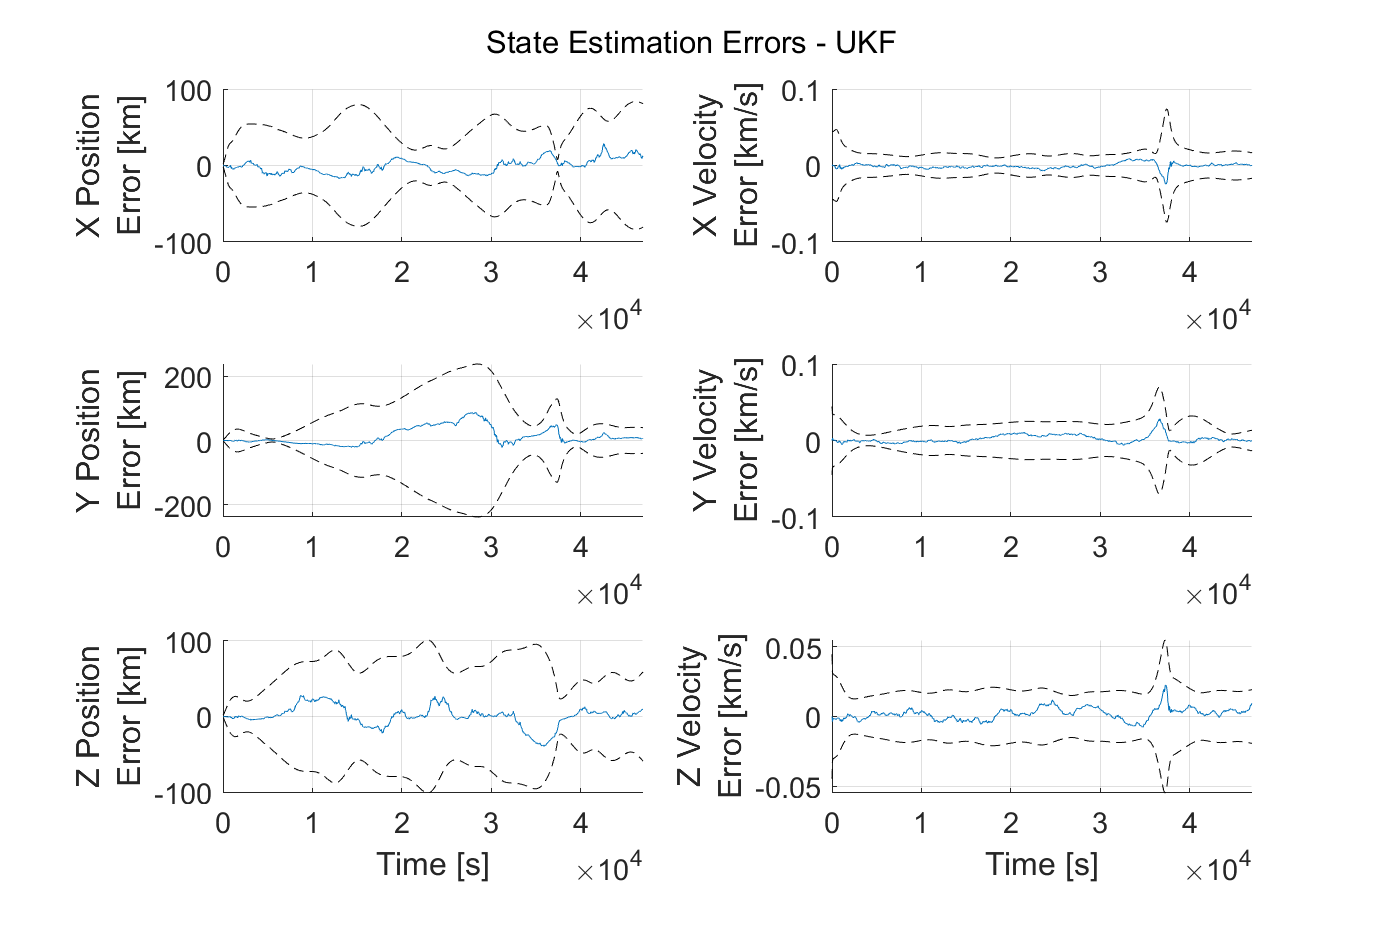
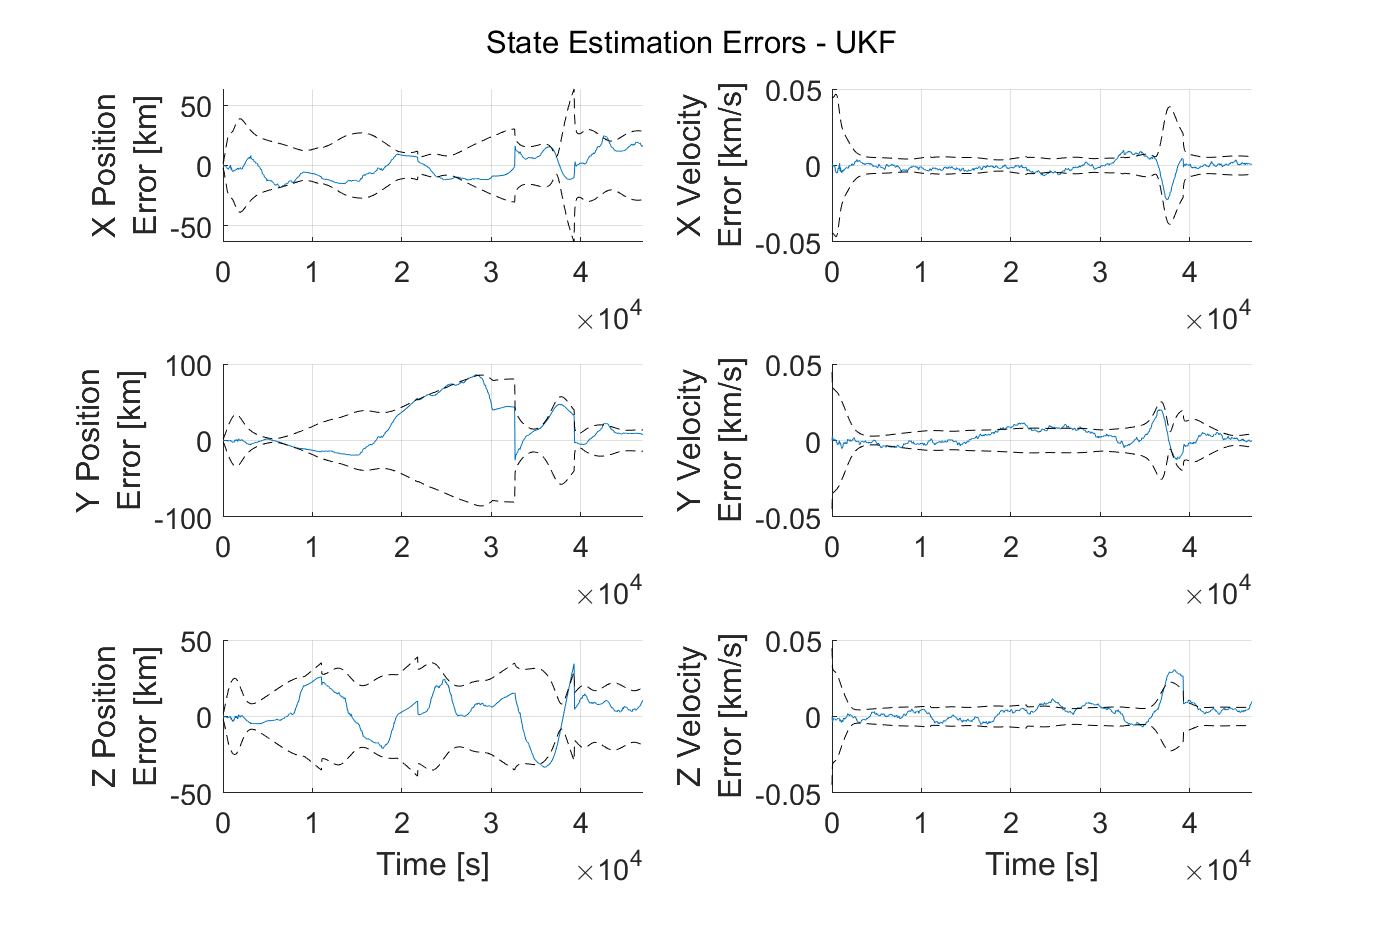
Tuned PF
Separated Q and R for each filter.
Added Line of Sight considerations

diff --git a/main.m b/main.m
@@ -45,19 +45,24 @@ saveas(fig, 'TM.png')
 
 %% Execute Filters
 %Parameters
-params.Q = 1e-6*[   0,      0,      0,      0,      0,      0;
-                    0,      1,      0,      0,      0,      0;
-                    0,      0,      0,      0,      0,      0;
-                    0,      0,      0,      1,      0,      0;
-                    0,      0,      0,      0,      0,      0;
-                    0,      0,      0,      0,      0,      1];
+params.UKF.Q = 1e-7*[   0,      0,      0,      0,      0,      0;
+                        0,      1,      0,      0,      0,      0;
+                        0,      0,      0,      0,      0,      0;
+                        0,      0,      0,      1,      0,      0;
+                        0,      0,      0,      0,      0,      0;
+                        0,      0,      0,      0,      0,      1];
+                    
+params.PF.Q = 1e-6*[    0,      0,      0,      0,      0,      0;
+                        0,      1,      0,      0,      0,      0;
+                        0,      0,      0,      0,      0,      0;
+                        0,      0,      0,      1,      0,      0;
+                        0,      0,      0,      0,      0,      0;
+                        0,      0,      0,      0,      0,      1];
 
-params.R = 10 * NOISE.R;
-% params.R = 10*[1,      0,      0,      0;
-%             0,      1e-5,      0,      0;
-%             0,      0,      0.01,    0; 
-%             0,      0,      0,      0.01]; % Measurement noise covariance
+params.UKF.R = 10 * NOISE.R;
+params.PF.R = 10 * NOISE.R;
 
+params.Ns = 1000; % Number of samples
 [UKF, PF] = RunFilters(x_chief, Y, params, CONST);
 
 
@@ -76,17 +81,27 @@ saveas(resid_fig, 'ResidualUKF.png')
 %% State Estimation Errors for PF
 
 PF_vec = VectorizeResults(PF);
-est_err_fig = PlotEstErr(t_vec, x_deputy, PF_vec.x_mmse, PF_vec.P, 'Particle Filter, N_s = 1000');
+est_err_fig = PlotEstErr(t_vec, x_deputy, PF_vec.x_mmse, PF_vec.P, sprintf('Particle Filter MMSE, N_s = %d', params.Ns));
 saveas(est_err_fig, 'EstErr_PF_MMSE.png');
 
 PF_vec = VectorizeResults(PF);
-est_err_fig = PlotEstErr(t_vec, x_deputy, PF_vec.x_map, PF_vec.P, 'Particle Filter, N_s = 1000');
+est_err_fig = PlotEstErr(t_vec, x_deputy, PF_vec.x_map, PF_vec.P, sprintf('Particle Filter MAP, N_s = %d', params.Ns));
 saveas(est_err_fig, 'EstErr_PF_MAP.png');
+
+Neff_fig = figure;
+hold on
+grid on
+xlabel('Time [s]')
+ylabel('Effective Sample Size, N_{eff}')
+title('Effective Sample Size vs Time')
+plot(t_vec, PF_vec.Neff, 'x', 'LineWidth', 2)
+set(gca, 'FontSize', 14)
+saveas(Neff_fig, 'Neff_PF.png')
 
 %% Measurement Errors for PF
 %MMSE
-resid_fig = PlotMeasInnov(t_vec, PF_vec.y_res_mmse, 'PF MMSE');
+resid_fig = PlotMeasInnov(t_vec, PF_vec.y_res_mmse, sprintf('PF MMSE, N_s = %d', params.Ns));
 saveas(resid_fig, 'ResidualPF_MMSE.png')
 %MAP
-resid_fig = PlotMeasInnov(t_vec, PF_vec.y_res_map, 'PF MAP');
+resid_fig = PlotMeasInnov(t_vec, PF_vec.y_res_map, sprintf('PF MAP, N_s = %d', params.Ns));
 saveas(resid_fig, 'ResidualPF_MAP.png')

diff --git a/RunFilters.m b/RunFilters.m
@@ -21,7 +21,7 @@ t = 0;
 
 %UKF
 filterUKF = trackingUKF(@transitionfcn, @measurementfcn, init_state, ...
-         'ProcessNoise', params.Q, 'MeasurementNoise', params.R,...
+         'ProcessNoise', params.UKF.Q, 'MeasurementNoise', params.UKF.R,...
          'StateCovariance', UKF.Pp,...
          'Alpha', 1e-3);
      
@@ -37,22 +37,29 @@ for k = 1:(length(Y)-1)
     
     %Prediction step
     [UKF.xm(:,k+1), UKF.Pm(:,:,k+1)] = predict(filterUKF, params.dt, CONST);
-%     [PF.xm(:,k+1), PF.Pm(:,:,k+1)] = predict(filterPF, params.dt, CONST);
     
-    %Measurement residual
-    [UKF.yres(:,k+1), UKF.Sk(:,:,k+1)] = residual(filterUKF, Y(:,k+1), {x_chief(:,k+1), zeros(params.p, params.p)});
-    %[PF.yres(:,k+1), PF.Sk(:,:,k+1)] = residual(filterPF, Y(:,k+1), {x_chief(:,k+1), zeros(params.p, params.p)});
-    
-    %Correction step
-    [UKF.xp(:,k+1), UKF.Pp(:,:,k+1)] = correct(filterUKF,Y(:,k+1), x_chief(:,k+1), zeros(params.p, params.p));
-%     [PF.xp(:,k+1), PF.Pp(:,:,k+1)] = correct(filterPF,Y(:,k+1), x_chief(:,k+1), zeros(params.p, params.p));
+    if ~isnan(Y(:, k+1)) % If a valid measurement is taken
+        
+        %Correction step
+        [UKF.xp(:,k+1), UKF.Pp(:,:,k+1)] = correct(filterUKF,Y(:,k+1), x_chief(:,k+1), zeros(params.p, params.p));
+
+        %Measurement residual
+        [UKF.yres(:,k+1), UKF.Sk(:,:,k+1)] = residual(filterUKF, Y(:,k+1), {x_chief(:,k+1), zeros(params.p, params.p)});
+        
+    else
+        
+        UKF.xp(:, k+1) = UKF.xm(:, k+1);
+        UKF.Pp(:, :, k+1) = UKF.Pm(:, :, k+1);
+        UKF.yres(:, k+1) = NaN;
+        UKF.Sk(:, :, k+1) = NaN;
+        
+    end
     
     %Step time forward
     t = t + params.dt;
 end
 
-Ns = 500;
-PF = RunPF(x_chief, Y, params, CONST, Ns);
+PF = RunPF(x_chief, Y, params, CONST, params.Ns);
 
 end
 

diff --git a/TruthModelSim.m b/TruthModelSim.m
@@ -49,13 +49,42 @@ X(:, :, 2) = X_deputy;
 
 % Measurements
 n_s = 2; % Number of satellites
-% X_chief = X(:, :, 1);
 
 for i = 2:n_s
-%     X_deputy = X(:, :, i);
-    
     Y = measurementfcn(X_deputy, X_chief, NOISE.R);
 end
+
+% Determine if the Line of Sight is obstructed
+X1 = [X_chief(1, :); X_chief(3, :); X_chief(5, :)]; % [km] Position vector of the chief satellite
+X2 = [X_deputy(1, :); X_deputy(3, :); X_deputy(5, :)]; % [km] Position vector of the deputy satellite
+pt = [0; 0; 0]; % Point to find the distance to
+LOS = X2 - X1; % Line of sight vector
+
+V_pt_LOS = cross(cross(pt - X1, LOS), LOS); % Vector w/ minimum distance from pt to LOS
+% Normalize each vector if the magnitude of V_pt_LOS is non-zero
+V_pt_LOS(:, vecnorm(V_pt_LOS) ~= 0) = V_pt_LOS(:, vecnorm(V_pt_LOS) ~= 0)./vecnorm(V_pt_LOS(:, vecnorm(V_pt_LOS) ~= 0)); % Unit LOS vector
+
+% Calculate the distance between pt and LOS if the magnitude of V_pt_LOS is
+% non-zero
+d_pt_LOS = vecnorm(cross(X1, LOS))./vecnorm(LOS); % [km] Distance from pt to LOS
+
+pt_LOS = d_pt_LOS.*V_pt_LOS; % [km] Point in 3D space on LOS closest to pt
+
+% Calculate the value of t in the equation:
+%   pt_LOS = X1 + t * LOS
+% to determine whether the shortest distance occurs between the satellites
+% (Corresponds to t = [0, 1]
+t = (pt_LOS - X1)./LOS;
+
+bool_valid_rng_prm = zeros(1, size(Y, 2));
+% bool_valid_rng_prm(1, :) = abs(t(1, :) - t(2, :)) < 1e-12;
+% bool_valid_rng_prm(2, :) = abs(t(1, :) - t(3, :)) < 1e-12;
+bool_valid_rng_prm = d_pt_LOS > CONST.R_E | t(1, :) < 0 | t(1, :) > 1;
+
+valid_rng_prm = double(bool_valid_rng_prm);
+
+valid_rng_prm(valid_rng_prm == 0) = NaN;
+Y = Y.*valid_rng_prm;
 
 end
 

diff --git a/SIS.m b/SIS.m
@@ -6,23 +6,34 @@ function [X_kp1] = SIS(X_k, y_kp1, x_chief, params, CONST)
 X_kp1.x = zeros(params.n, Ns);
 X_kp1.w = zeros(Ns, 1);
 
-for i = 1:Ns
-    mu_q = transitionfcn(X_k.x(:, i), params.dt, CONST);
-    X_kp1.x(:, i) = mvnrnd(mu_q, params.Q)';
-    
-    mu_p = measurementfcn(X_kp1.x(:, i), x_chief, zeros(params.p));
-    
-%     X_kp1.w(i) = X_k.w(i);
-%     for j = 1:params.p
-%         pdf_ij = normpdf(y_kp1(j), mu_p(j), params.R(j, j));
-%         X_kp1.w(i) = X_kp1.w(i) * pdf_ij;
-%     end
-    X_kp1.w(i) = X_k.w(i)*mvnpdf(y_kp1, mu_p, params.R);
-    
-end
+w_total = 0;
+iter = 0;
+max_iter = 100;
 
-w_total = sum(X_kp1.w);
-X_kp1.w = X_kp1.w./w_total; % Normalize
+while w_total == 0 && iter < max_iter
+    iter = iter + 1;
+    
+    for i = 1:Ns
+        mu_q = transitionfcn(X_k.x(:, i), params.dt, CONST);
+        X_kp1.x(:, i) = mvnrnd(mu_q, params.PF.Q)';
+
+        if ~isnan(y_kp1) % If a valid measurement is taken at time k+1
+            mu_p = measurementfcn(X_kp1.x(:, i), x_chief, zeros(params.p));
+            X_kp1.w(i) = X_k.w(i)*mvnpdf(y_kp1, mu_p, params.PF.R);
+        else
+            X_kp1.w(i) = X_k.w(i);
+        end
+    end
+
+    w_total = sum(X_kp1.w);
+
+    if w_total ~= 0
+        X_kp1.w = X_kp1.w./w_total; % Normalize
+    else
+        warning('Sum of the particle weights equals 0. All particles have died.');
+        warning('Resampling on iteration %d.', iter);
+    end
+end
 
 end
 

diff --git a/Resample.m b/Resample.m
@@ -9,7 +9,12 @@ w_cdf = cumsum(X_kp1.w);
 for i = 1:Ns
     pSamp = rand;
     ii = find(pSamp < w_cdf, 1);
-    x_resamp(:, i) = X_kp1.x(:, ii);
+    
+    if ~isempty(ii)
+        x_resamp(:, i) = X_kp1.x(:, ii);
+    else
+        x_resamp(:, i) = NaN*ones(n, 1);
+    end
 end
 
 %Adaptive Injection

diff --git a/RunPF.m b/RunPF.m
@@ -46,8 +46,6 @@ for k = 1:params.N-1
     pf_kp1.Neff = 1/(sum((X_kp1.w).^2));
     PF(k+1) = pf_kp1;
     
-%     plot(X_kp1.w, 'o', 'LineWidth', 2)
-    
     X_kp1 = Resample(X_kp1, w_fast, w_slow, nu);
     X_k = X_kp1;
     
